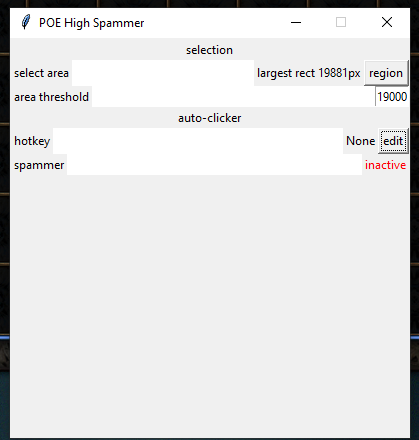
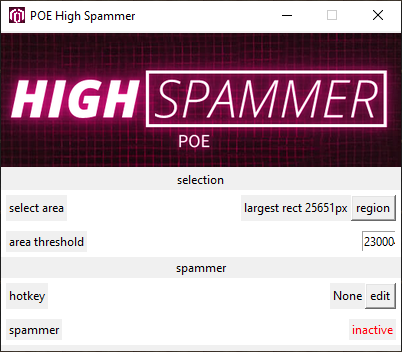
Update README.md

diff --git a/README.md b/README.md
@@ -1,5 +1,39 @@
 ![Banner](img/banner.png)
-# POE High Spammer
+# PoE High Spammer
+
+PoE High Spammer is a crafting tool for the game Path of Exile.
+At its core it remaps the scroll wheel input to left clicks, a maximum of one action in game is taken per scroll action.
+
+After each reroll ("spamming") the tool checks, if the current filter highlights the item. If so it prevents over-rolling the highlighted state even if the user continuously scrolls.
+
+## Legality
+
+The [terms of use](https://www.pathofexile.com/legal/terms-of-use-and-privacy-policy) section 7 restrict tool usage for the game. Many crafting tools such as auto-clickers are prohibited by section c:
+> 7. Restrictions: Under no circumstances, without the prior written approval of Grinding Gear Games, may you:
+> [...]
+> c. Utilise any automated software or 'bots' in relation to your access or use of the Website, Materials or Services.
+
+To circumvent this limitation it is common to remap left-click to the scroll-wheel to quickly move inventories. This method is [officially approved](https://www.reddit.com/r/pathofexile/comments/8y5cay/in_light_of_the_recent_build_of_the_week_video/) by the path of exile Support. Please note that this standpoint can change at any time.
+
+> It seems that, to be fully "ethical" (i.e. no breaching of Terms of Service), you need to make sure you're using a mouse-wheel that doesn't spin on its own, i.e. 1 finger movement = 1 key-press.
+
+> As for how to actually do it, it seems most commonly if you have a gaming mouse it should come with a control panel software that lets you rebind what mouse buttons do, but I don't think I have that personally, so you'd probably want to look into using AutoHotkey. As GGG tells us that anything that goes beyond 1 click or button-press = 1 server-side action is a ban-able offense, you shouldn't need to learn anything too sophisticated to set up a simple key rebind with AutoHotkey.
+
+This tool uses the same method. We listen to mouse scrolls and count the number of scrolls. This queue of user-actions is then drained one-by-one, so that we have a maximum of one server-action per user-action.
+
+## Detection method
+
+To detect a highlighted item the tool applies filters to a specified screenshot region. The goal is to detect the bright border around a highlighted item using optical image recognition.
+
+1. Take gray-scale screenshot <br/> ![Region in grayscale](img/demo-gray.png)
+
+2. Apply thresholding to only "see" bright features <br/> ![Region with thresholding](img/demo-thres.png)
+
+3. Apply closing with a cross kernel to the image <br/> ![Region with closing](img/demo-close.png)
+
+4. Label major features in the image <br/> ![Region with boxes](img/demo-boxed.png) <br/> This image has the known feature coordinates rendered in green.
+
+Now we simply calculate the area for the largest feature, which we assume is the box. In this case the area is 25651px^2, and compare it to the "area threshold" 23000px^2. If the area exceeds the threshold, then the box is highlighted.
 
 ## How to use
 
@@ -37,13 +71,14 @@ First adjust the filter in the "highlight items" search box to your target, be s
 
 Once the hotkey is toggled the auto-clicker will simulate a mouse left click, until the item is highlighted.
 For this it is important that the box which your item is within is not obscured by the info panel.
-To ensure this doesnt happen hold the [ALT] key.
-To repeatedly use currency hold the [SHIFT] key.
+To ensure this doesnt happen hold the `[ALT]` key.
+To repeatedly use currency hold the `[SHIFT]` key.
 
-In this example we want to alt spam any life roll on our gloves, so we hold [SHIFT]+[ALT] and hover over the item, so that the cursor does not overlay the edge of the item-boundary-box (which is used for detecting the match).
-Now press the hotkey [COLON].
+In this example we want to alt spam any life roll on our gloves, so we hold `[SHIFT]+[ALT]` and hover over the item, so that the cursor does not overlay the edge of the item-boundary-box (which is used for detecting the match).
+Now press the hotkey `[COLON]`.
 
-The autoclicker will reroll until the item is highlighted. This also works with influenced/animated items.
+The spammer will reroll until the item is highlighted. This also works with influenced/animated items.
+Action will only be taken once per scroll, so that the tool exhibits a maximum of 1 server action per 1 input.
 
 ### Dont's
 
